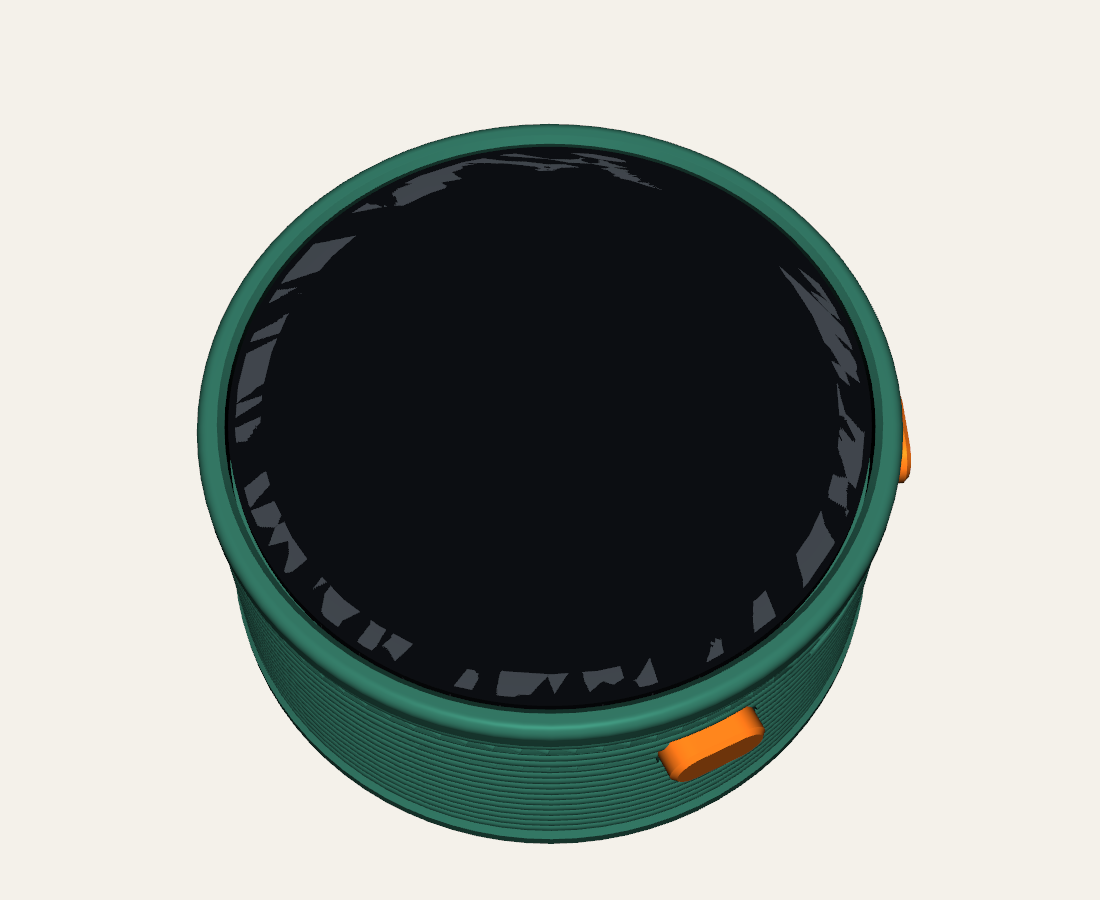
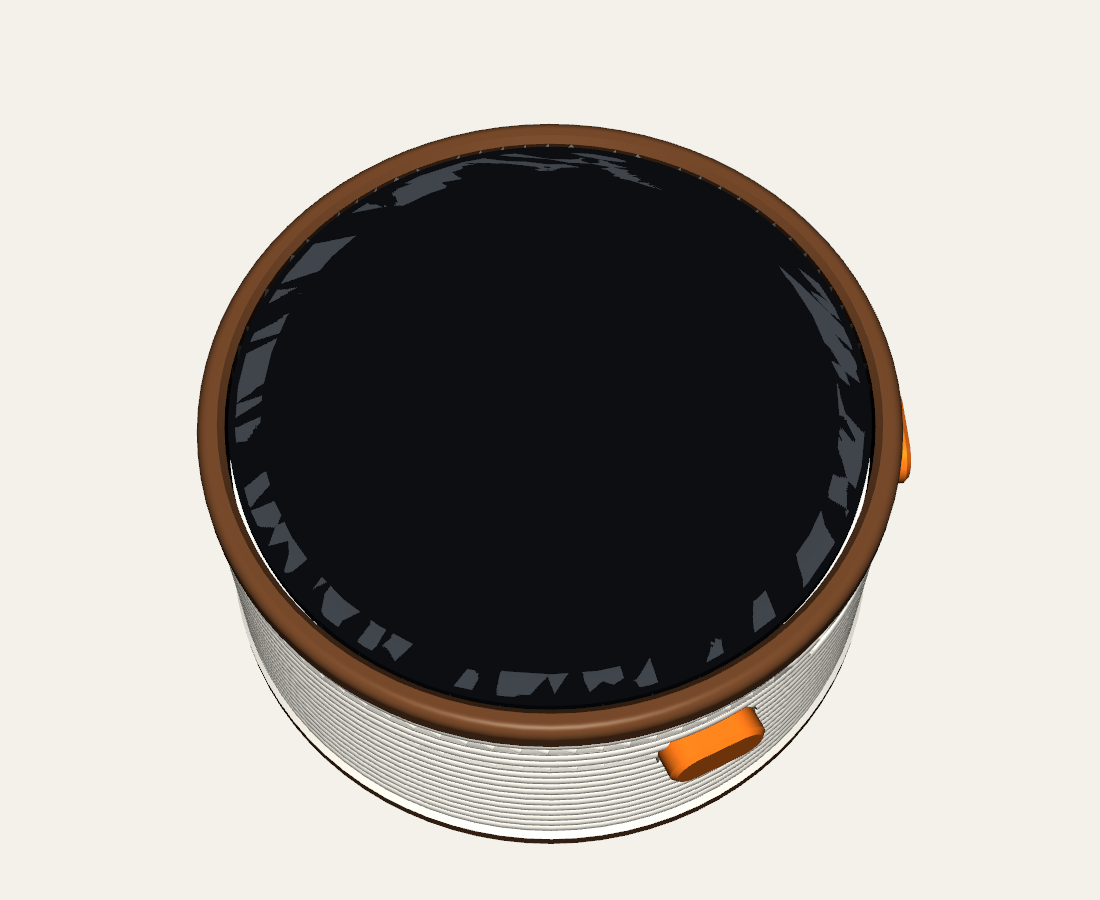
case: previews in the print's colours. render.py colours the case by height like the two-tone print: brown back and front flanges (BACK_FLANGE, FRONT_FLANGE) and white line between, with the back's raised art cream. All 8 previews and the case slide re-rendered; the canvas follows; devlog beat 66

Changed region(s): [[0.1545, 0.1244, 0.8345, 0.9644]]

diff --git a/case/render.py b/case/render.py
@@ -2,14 +2,20 @@
 
 from pathlib import Path
 
+import numpy as np
 import pyvista as pv
 from build123d import export_stl
 
 import board
+import params as p
 import parts
 
 OUT = Path(__file__).parent / "previews"
-CASE_COLOR = "#2e6b5a"
+# The case as printed: brown flanges with white line wound between, changing filament at the
+# flanges' heights. PRINTED in a shot colours a case mesh that way.
+FLANGE_COLOR = "#6b4226"
+LINE_COLOR = "#f2eee4"
+PRINTED = "printed"
 BUTTON_COLOR = "#ff7a1a"
 BOARD_COLOR = "#3a3f45"
 GLASS_COLOR = "#0b0d10"
@@ -42,6 +48,18 @@ def glass_mesh() -> pv.PolyData:
     )
 
 
+def printed(m: pv.PolyData) -> pv.PolyData:
+    """`m` with a `colour` cell array: FLANGE_COLOR in the back and front flanges' heights and
+    LINE_COLOR between, as the two-tone print comes out."""
+    z = m.cell_centers().points[:, 2]
+    back, front = m.bounds[4], m.bounds[5]
+    line = (z > back + p.BACK_FLANGE) & (z < front - p.FRONT_FLANGE)
+    rgb = [np.array(pv.Color(c).int_rgb, np.uint8) for c in (FLANGE_COLOR, LINE_COLOR)]
+    m = m.copy()
+    m.cell_data["colour"] = np.where(line[:, None], rgb[1], rgb[0])
+    return m
+
+
 def shot(name: str, actors, camera, section: bool = False, parallel: bool = False, key=None):
     """One preview PNG. `key` is the main light; by default it rakes in over the camera."""
     plot = pv.Plotter(off_screen=True, window_size=SIZE, lighting="none")
@@ -52,10 +70,13 @@ def shot(name: str, actors, camera, section: bool = False, parallel: bool = Fals
     plot.add_light(pv.Light(position=key, focal_point=focus, intensity=0.85))
     plot.add_light(pv.Light(position=eye, focal_point=focus, intensity=0.35))
     for m, color in actors:
+        if color == PRINTED:
+            m = printed(m)
         if section:
             m = m.clip(normal=(0, -1, 0), origin=(0, 0.01, 0))
         m = m.compute_normals(split_vertices=True, feature_angle=35)
-        plot.add_mesh(m, color=color, smooth_shading=True, specular=0.25, specular_power=20)
+        look = {"scalars": "colour", "rgb": True} if color == PRINTED else {"color": color}
+        plot.add_mesh(m, smooth_shading=True, specular=0.25, specular_power=20, **look)
     plot.camera_position = camera
     if parallel:
         plot.enable_parallel_projection()
@@ -81,19 +102,19 @@ def main():
     buttons = mesh(parts.button(), "buttons")
     pcb = board_mesh()
     glass = glass_mesh()
-    fitted = [(case, CASE_COLOR), (buttons, BUTTON_COLOR), (pcb, BOARD_COLOR), (glass, GLASS_COLOR)]
+    fitted = [(case, PRINTED), (buttons, BUTTON_COLOR), (pcb, BOARD_COLOR), (glass, GLASS_COLOR)]
 
     shot("front", fitted, [(40, -70, 140), (0, 0, -7), (0, 0, 1)])
     art = mesh(parts.art(False), "art")
     shot(
         "back",
-        [(case, CASE_COLOR), (art, ART_COLOR)],
+        [(case, PRINTED), (art, ART_COLOR)],
         [(0, 0, -140), (0, 0, -8), (0, 1, 0)],
         parallel=True,
     )
     shot(
         "back_angle_single_colour",
-        [(case, CASE_COLOR)],
+        [(case, PRINTED)],
         [(-25, 40, -120), (0, 0, -8), (0, 1, 0)],
         key=(-80, 60, -40),
     )
@@ -101,7 +122,7 @@ def main():
     shot("button_side", fitted, [(140, 25, 10), (0, 0, -7), (0, 0, 1)])
     shot(
         "inside",
-        [(case, CASE_COLOR), (buttons, BUTTON_COLOR)],
+        [(case, PRINTED), (buttons, BUTTON_COLOR)],
         [(30, -60, 120), (0, 0, -8), (0, 0, 1)],
     )
     shot(
@@ -112,7 +133,7 @@ def main():
         parallel=True,
     )
     bat = [
-        (case_bat, CASE_COLOR),
+        (case_bat, PRINTED),
         (buttons, BUTTON_COLOR),
         (pcb, BOARD_COLOR),
         (glass, GLASS_COLOR),

diff --git a/devlog/beats.md b/devlog/beats.md
@@ -1303,3 +1303,17 @@ Images are in `img/`. Newest beats go at the bottom.
   still eat it."
 - **Media:** `img/65-before-green-case.png`, `img/65-after-two-tone-case.png`,
   `video/65-before-eat.mp4`, `video/65-after-eat.mp4`.
+
+## 66. The case renders in the print's colours (2026-10-12)
+
+- **The ask:** "It seems like the image for the case still isn't colored"
+- **What got in the way:** beat 65 coloured the trailer's Blender case, but the case slide's
+  pictures come from `case/render.py`, which drew the whole case in one teal-green.
+- **The fix:**
+  - `render.py` colours each face of the case by its height, the way the filament changes:
+    brown in the back and front flanges (`BACK_FLANGE` 2.0 mm, `FRONT_FLANGE` 2.2 mm) and
+    white line between. The raised art on the back stays cream.
+  - All 8 previews were re-rendered in 15 s.
+  - The case slide was re-rendered, and the canvas and the website's 2x copy follow.
+- **Media:** `img/66-before-case-slide.png`, `img/66-after-case-slide.png`,
+  `img/66-before-button-side.png`, `img/66-after-button-side.png`.
